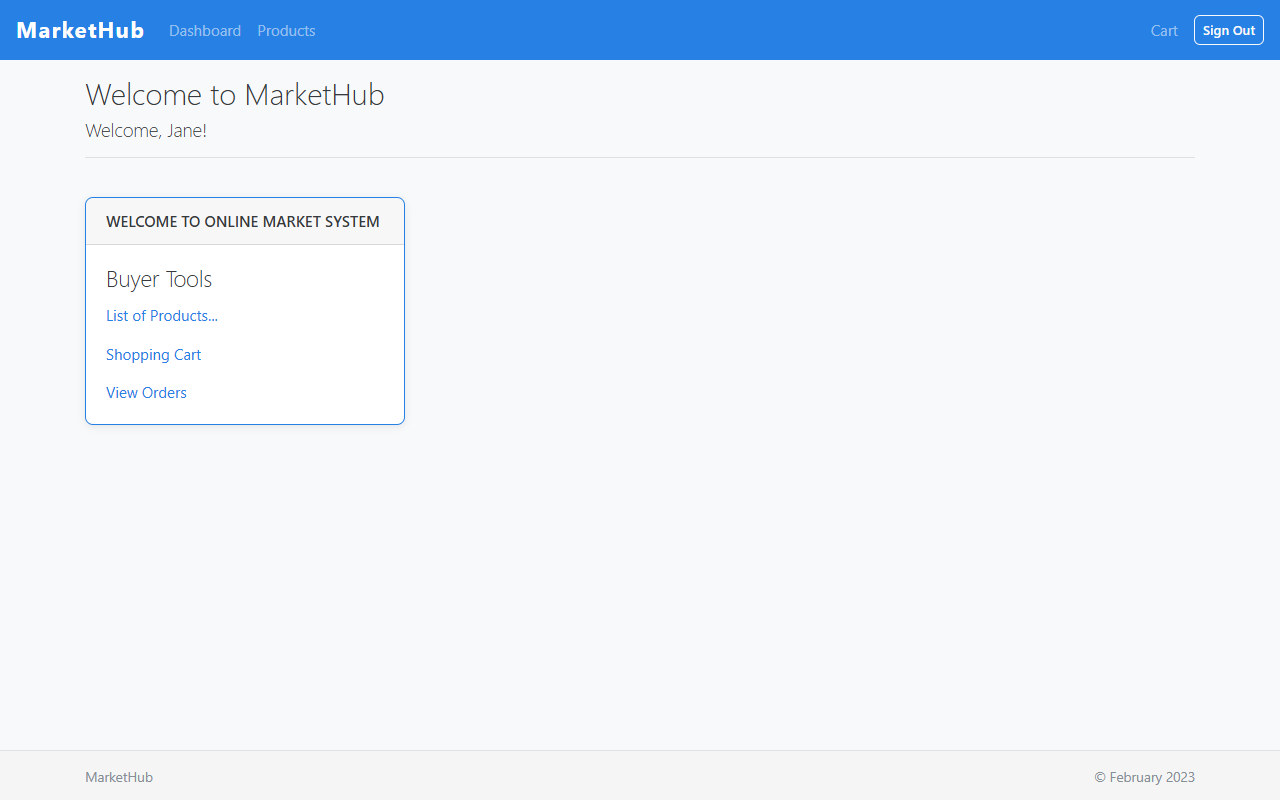
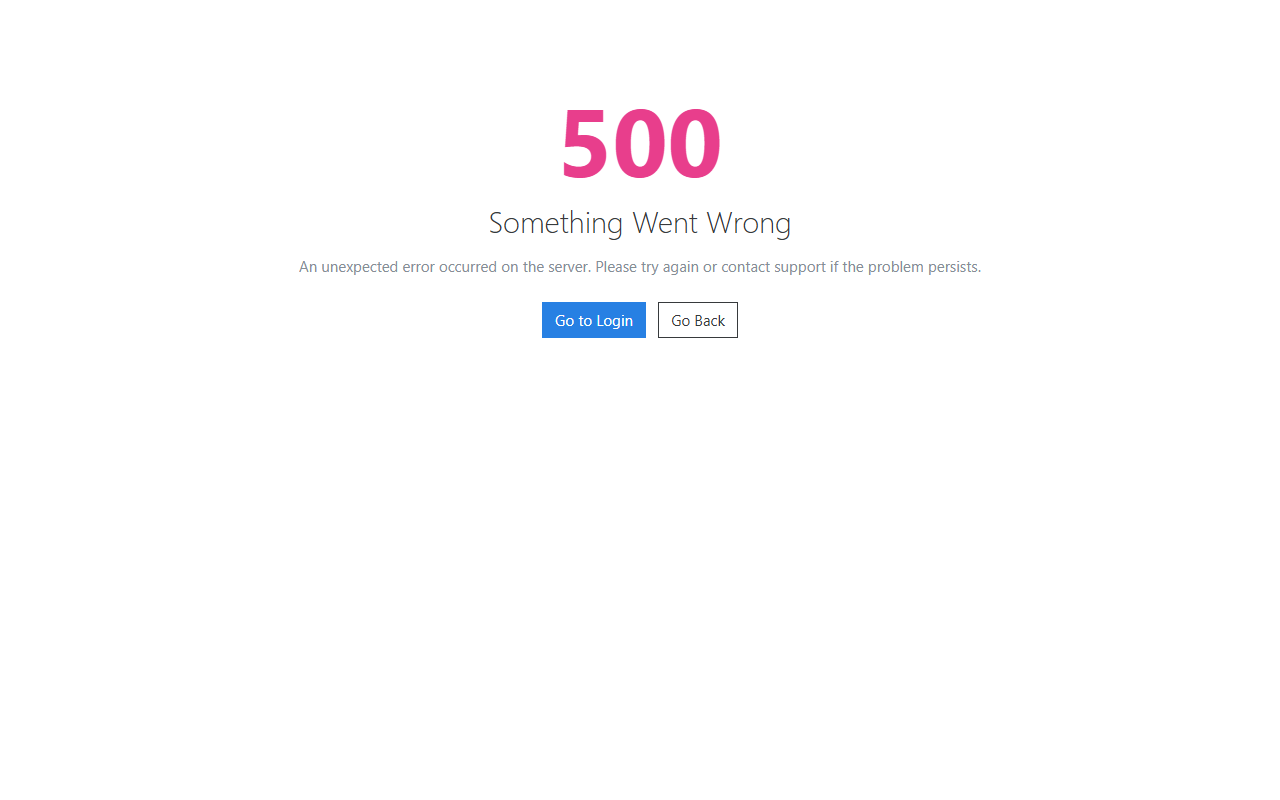
fix cart lazy load, update screenshots, fix cart nav

diff --git a/screenshots.js b/screenshots.js
@@ -65,7 +65,7 @@ async function signup(page, first, last, username, email, password, role) {
   await shot(page, 'products');
 
   console.log('Buyer: cart...');
-  await page.goto(`${BASE}/onlinemarket/secured/services`, { waitUntil: 'networkidle2' });
+  await page.goto(`${BASE}/onlinemarket/cart/me`, { waitUntil: 'networkidle2' });
   await shot(page, 'cart');
 
   console.log('Logging out buyer...');

diff --git a/src/main/java/com/markethub/app/model/ShoppingCart.java b/src/main/java/com/markethub/app/model/ShoppingCart.java
@@ -20,7 +20,7 @@ public class ShoppingCart implements Serializable {
     @OneToOne(mappedBy = "shoppingCart")
     private User buyer;
 
-    @OneToMany
+    @OneToMany(fetch = javax.persistence.FetchType.EAGER)
     @JoinColumn(name= "carts_products")
     private List<Product> products;
 